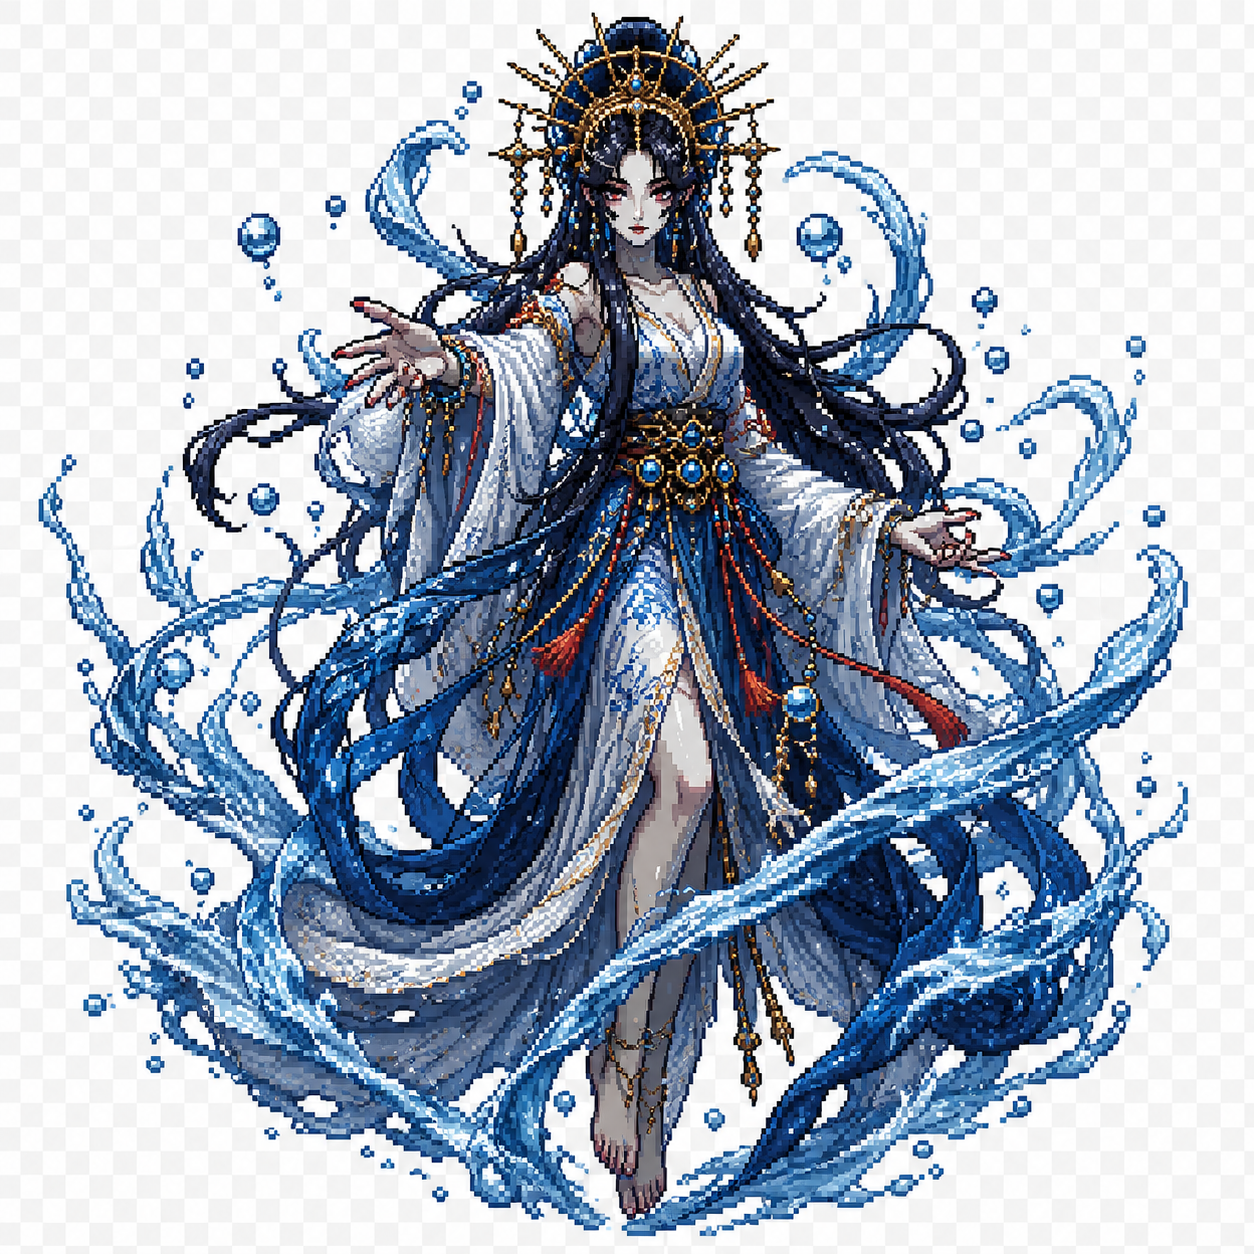
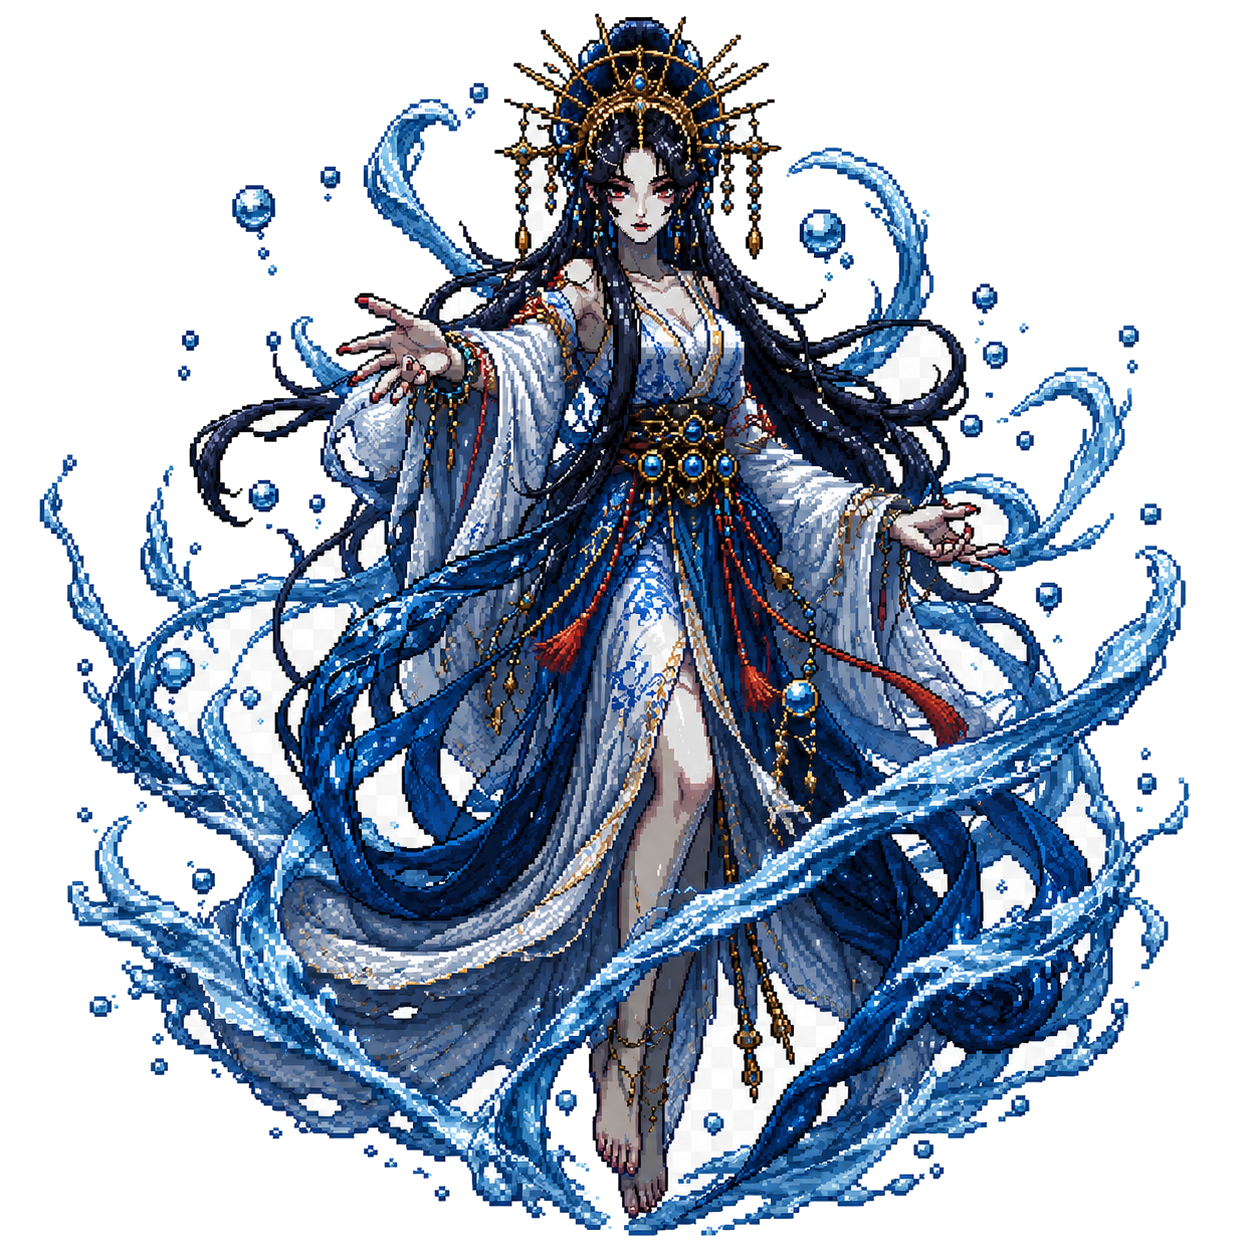
change(raid): ヴァルゼノク/あまざの画像を新しいものに差し替え＋キャッシュバスト
画像ファイル(amaza.png/varuzenoku.png)を更新し、bossImageに?v=2を付与。

diff --git a/src/pages/RaidBoss.jsx b/src/pages/RaidBoss.jsx
@@ -16,7 +16,8 @@ import {
 const POLL_MS = 5000
 const BOSS_NAME = '黒龍ヴァルゼノク'
 // レイドボスの表示画像（ボス名→画像）。あまざ用は /public/raid-boss-amaza.png を配置
-const bossImage = (name) => name === 'あまざ' ? '/amaza.png' : '/varuzenoku.png'
+const RAID_IMG_VER = '2'  // 画像差し替え時に上げるとキャッシュを無効化
+const bossImage = (name) => (name === 'あまざ' ? '/amaza.png' : '/varuzenoku.png') + `?v=${RAID_IMG_VER}`
 const BOSS_DEF  = 1000
 const BOSS_MDEF = 1000
 const BOSS_SPD  = 1200
